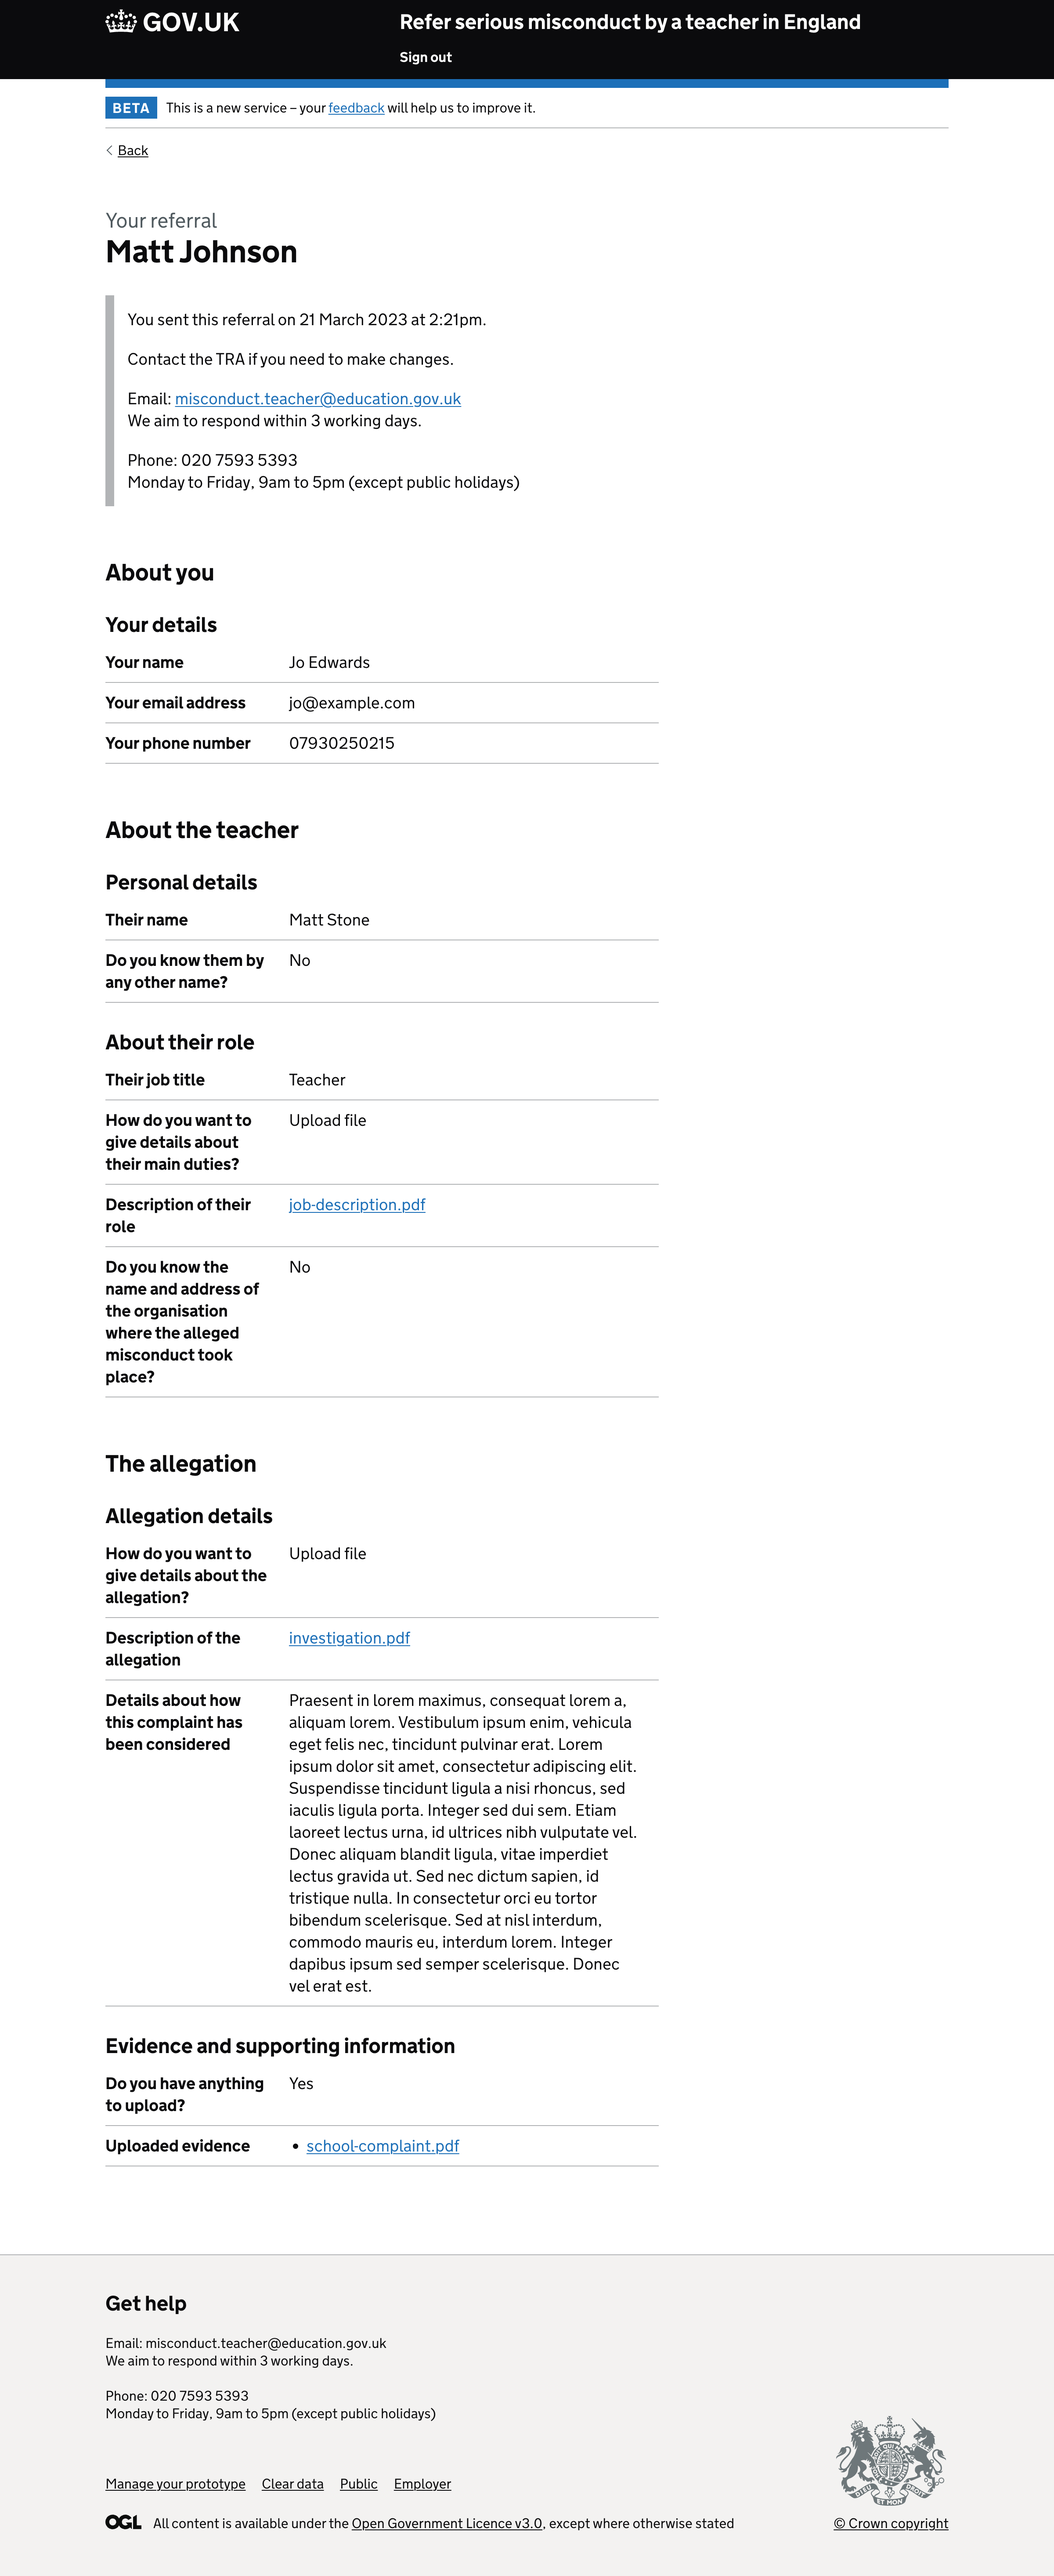
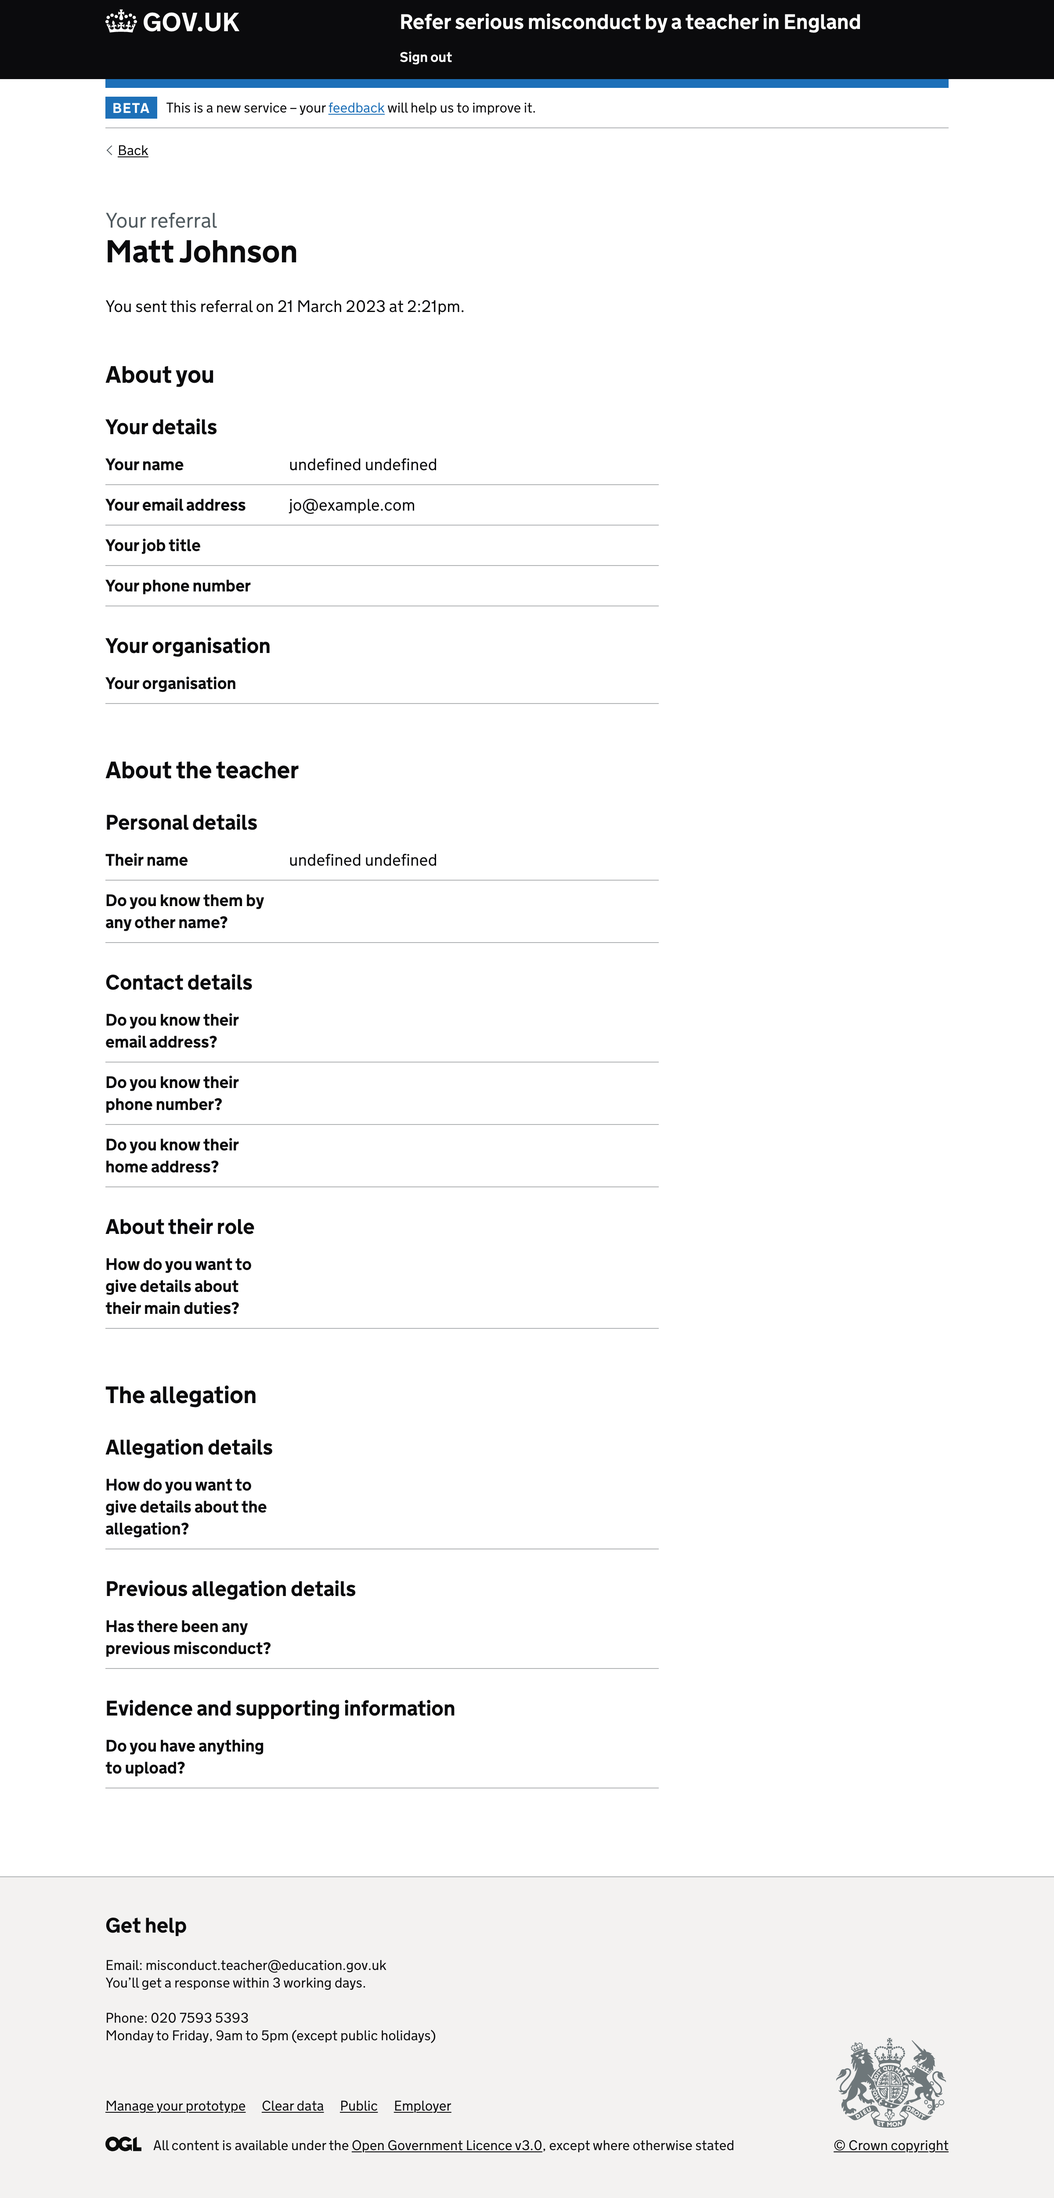
Update screenshot

diff --git a/app/posts/teacher-misconduct/2023-01-16-viewing-sent-referrals-and-making-another-referral.md b/app/posts/teacher-misconduct/2023-01-16-viewing-sent-referrals-and-making-another-referral.md
@@ -27,7 +27,7 @@ At the moment, users see the task list with their previous referral when they si
 
 We added an overview page that shows sent referrals and any draft referrals.
 
-Clicking on a sent referral will show a read-only version. We also added contact details for the TRA if users need to make any changes.
+Clicking on a sent referral will show a read-only version.
 
 ### Adding a link from the confirmation page to the referral details page
 
